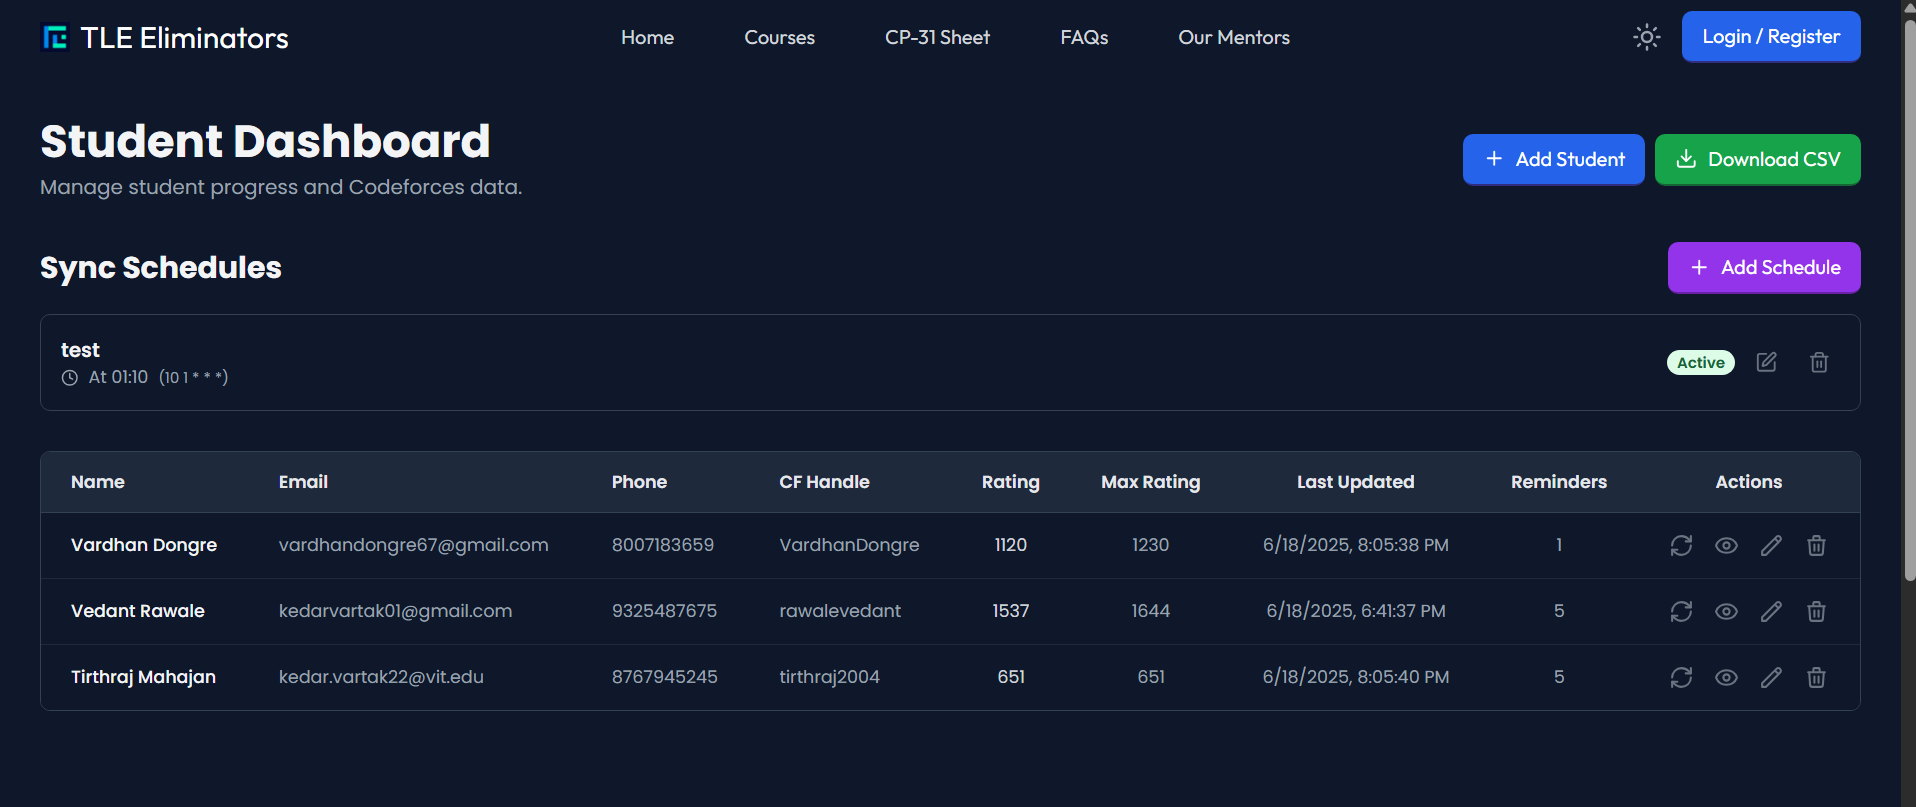
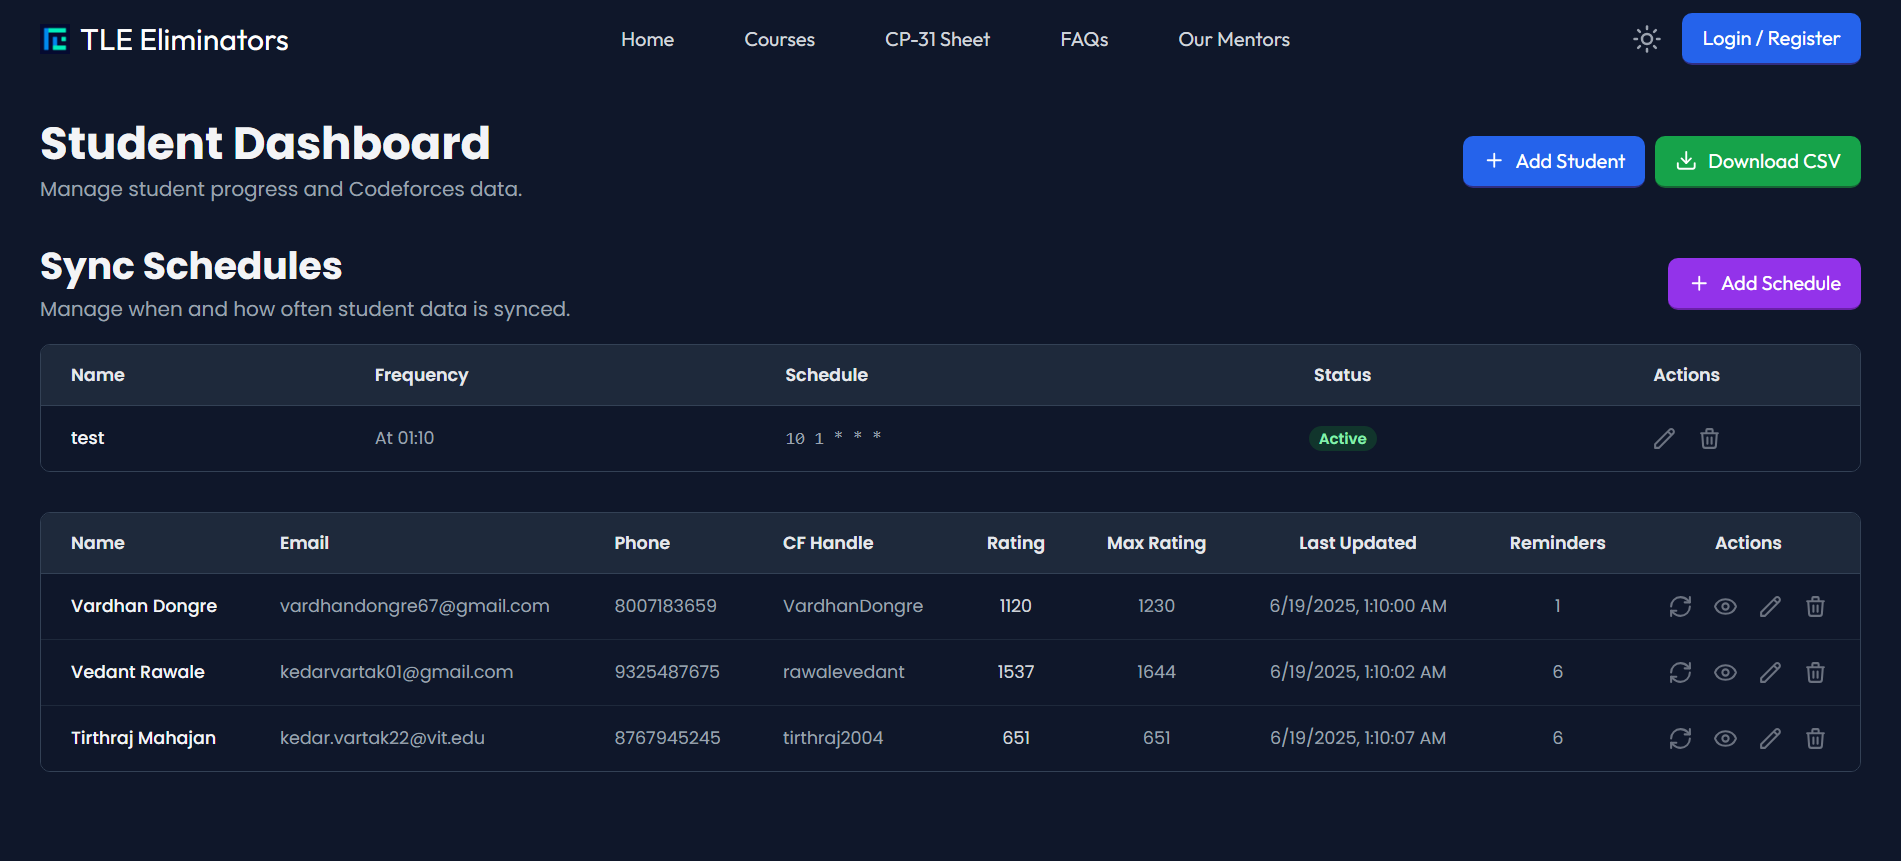
cron job schedule sync ui updation

diff --git a/frontend/src/pages/StudentDashboard.js b/frontend/src/pages/StudentDashboard.js
@@ -1,6 +1,6 @@
 import { useState, useEffect } from "react";
 import "../App.css";
-import { Plus, Download, Eye, RefreshCw, Trash2, Edit, Save, X, Clock } from 'lucide-react';
+import { Plus, Download, Eye, RefreshCw } from 'lucide-react';
 import toast from 'react-hot-toast';
 import { Link } from "react-router-dom";
 import cronstrue from 'cronstrue';
@@ -496,22 +496,43 @@ function StudentDashboard() {
 }
 
 const ScheduleManager = ({ schedules, onSave, onDelete }) => {
-  const [showModal, setShowModal] = useState(false);
+  const [showEditModal, setShowEditModal] = useState(false);
   const [editingSchedule, setEditingSchedule] = useState(null);
+  const [scheduleToDelete, setScheduleToDelete] = useState(null);
 
-  const openModal = (schedule = null) => {
-    setEditingSchedule(schedule ? { ...schedule } : { name: '', schedule: '0 2 * * *', isEnabled: true });
-    setShowModal(true);
+  const openEditModal = (schedule = null) => {
+    setEditingSchedule(schedule ? { ...schedule } : { name: '', schedule: '0 2 * * *', timezone: 'Asia/Kolkata', isEnabled: true });
+    setShowEditModal(true);
   };
 
-  const closeModal = () => {
-    setShowModal(false);
+  const closeEditModal = () => {
+    setShowEditModal(false);
     setEditingSchedule(null);
   };
 
   const handleSave = () => {
+    if (!editingSchedule.name || !editingSchedule.schedule) {
+      toast.error('Schedule name and pattern are required.');
+      return;
+    }
+    // Basic cron validation
+    if (editingSchedule.schedule.split(' ').length !== 5) {
+      toast.error('Invalid cron pattern. It must have 5 parts.');
+      return;
+    }
     onSave(editingSchedule);
-    closeModal();
+    closeEditModal();
+  };
+
+  const handleDeleteClick = (schedule) => {
+    setScheduleToDelete(schedule);
+  };
+
+  const confirmDelete = () => {
+    if (scheduleToDelete) {
+      onDelete(scheduleToDelete._id);
+      setScheduleToDelete(null);
+    }
   };
 
   const handleInputChange = (e) => {
@@ -521,54 +542,119 @@ const ScheduleManager = ({ schedules, onSave, onDelete }) => {
 
   return (
     <div className="mb-8">
-      <div className="flex justify-between items-center mb-4">
-        <h2 className="text-2xl font-bold">Sync Schedules</h2>
-        <button onClick={() => openModal()} className="flex items-center gap-2 bg-purple-600 text-white font-normal py-2 px-4 rounded-lg transition-all duration-300 font-outfit border-b-2 border-purple-800 hover:border-purple-700 hover:bg-purple-500 active:border-b-0">
+      <header className="flex flex-col sm:flex-row justify-between items-start sm:items-center mb-4">
+        <div>
+            <h2 className="text-3xl font-bold">Sync Schedules</h2>
+            <p className="text-gray-500 dark:text-gray-400 mt-1">Manage when and how often student data is synced.</p>
+        </div>
+        <button 
+          onClick={() => openEditModal()} 
+          className="flex items-center gap-2 bg-purple-600 text-white font-normal py-2 px-4 rounded-lg transition-all duration-300 font-outfit border-b-2 border-purple-800 hover:border-purple-700 hover:bg-purple-500 active:border-b-0 mt-4 sm:mt-0"
+        >
           <Plus size={18} /> Add Schedule
         </button>
-      </div>
-      <div className="bg-white dark:bg-slate-900 rounded-lg border border-gray-200 dark:border-slate-700 overflow-hidden">
-        <ul className="divide-y divide-gray-200 dark:divide-slate-700">
-          {schedules.map(schedule => (
-            <li key={schedule._id} className="p-4 flex flex-col sm:flex-row justify-between items-start sm:items-center hover:bg-gray-50 dark:hover:bg-slate-800/50">
-              <div className="mb-2 sm:mb-0">
-                <p className={`font-semibold ${!schedule.isEnabled && 'line-through text-gray-400'}`}>{schedule.name}</p>
-                <p className="text-sm text-gray-500 dark:text-gray-400 flex items-center gap-2">
-                  <Clock size={14} />
+      </header>
+      
+      <div className="overflow-x-auto bg-white dark:bg-slate-900 rounded-lg border border-gray-200 dark:border-slate-700">
+        <table className="min-w-full divide-y divide-gray-200 dark:divide-slate-700">
+          <thead className="bg-gray-50 dark:bg-slate-800">
+            <tr>
+              <th scope="col" className="py-3.5 px-6 text-left text-sm font-semibold text-gray-900 dark:text-gray-200">Name</th>
+              <th scope="col" className="px-6 py-3.5 text-left text-sm font-semibold text-gray-900 dark:text-gray-200">Frequency</th>
+              <th scope="col" className="hidden px-6 py-3.5 text-left text-sm font-semibold text-gray-900 dark:text-gray-200 md:table-cell">Schedule</th>
+              <th scope="col" className="px-6 py-3.5 text-center text-sm font-semibold text-gray-900 dark:text-gray-200">Status</th>
+              <th scope="col" className="px-6 py-3.5 text-center text-sm font-semibold text-gray-900 dark:text-gray-200">Actions</th>
+            </tr>
+          </thead>
+          <tbody className="divide-y divide-gray-200 dark:divide-slate-800 bg-white dark:bg-slate-900">
+            {schedules.map(schedule => (
+              <tr key={schedule._id} className="hover:bg-gray-50 dark:hover:bg-slate-800/50">
+                <td className="whitespace-nowrap py-4 px-6 text-sm font-medium text-gray-900 dark:text-gray-100">{schedule.name}</td>
+                <td className="whitespace-nowrap px-6 py-4 text-sm text-gray-500 dark:text-gray-400">
                   {safeCronToString(schedule.schedule, { use24HourTimeFormat: true })}
-                  <span className="text-xs text-gray-400">({schedule.schedule})</span>
-                </p>
-              </div>
-              <div className="flex items-center gap-2">
-                <span className={`px-2 inline-flex text-xs leading-5 font-semibold rounded-full ${schedule.isEnabled ? 'bg-green-100 text-green-800' : 'bg-red-100 text-red-800'}`}>
-                  {schedule.isEnabled ? 'Active' : 'Disabled'}
-                </span>
-                <button onClick={() => openModal(schedule)} className="p-2 text-gray-500 hover:text-yellow-600 dark:hover:text-yellow-400"><Edit size={18} /></button>
-                <button onClick={() => onDelete(schedule._id)} className="p-2 text-gray-500 hover:text-red-600 dark:hover:text-red-500"><Trash2 size={18} /></button>
-              </div>
-            </li>
-          ))}
-        </ul>
+                </td>
+                <td className="hidden whitespace-nowrap px-6 py-4 text-sm text-gray-500 dark:text-gray-400 md:table-cell font-mono">{schedule.schedule}</td>
+                <td className="whitespace-nowrap px-6 py-4 text-sm text-center">
+                  <span className={`px-2 inline-flex text-xs leading-5 font-semibold rounded-full ${schedule.isEnabled ? 'bg-green-100 text-green-800 dark:bg-green-900/50 dark:text-green-300' : 'bg-red-100 text-red-800 dark:bg-red-900/50 dark:text-red-300'}`}>
+                    {schedule.isEnabled ? 'Active' : 'Disabled'}
+                  </span>
+                </td>
+                <td className="whitespace-nowrap py-4 px-6 text-center text-sm">
+                  <div className="flex items-center justify-center gap-4">
+                    <button onClick={() => openEditModal(schedule)} className="text-gray-500 hover:text-yellow-600 dark:hover:text-yellow-400 transition-colors" title="Edit Schedule">
+                        <svg xmlns="http://www.w3.org/2000/svg" fill="none" viewBox="0 0 24 24" stroke="currentColor" className="w-5 h-5"><path strokeLinecap="round" strokeLinejoin="round" strokeWidth="2" d="M15.232 5.232l3.536 3.536m-2.036-5.036a2.5 2.5 0 113.536 3.536L6.5 21.036H3v-3.536L16.732 3.732z" /></svg>
+                    </button>
+                    <button onClick={() => handleDeleteClick(schedule)} className="text-gray-500 hover:text-red-600 dark:hover:text-red-500 transition-colors" title="Delete Schedule">
+                        <svg xmlns="http://www.w3.org/2000/svg" fill="none" viewBox="0 0 24 24" stroke="currentColor" className="w-5 h-5"><path strokeLinecap="round" strokeLinejoin="round" strokeWidth="2" d="M19 7l-.867 12.142A2 2 0 0116.138 21H7.862a2 2 0 01-1.995-1.858L5 7m5 4v6m4-6v6m1-10V4a1 1 0 00-1-1h-4a1 1 0 00-1 1v3M4 7h16" /></svg>
+                    </button>
+                  </div>
+                </td>
+              </tr>
+            ))}
+             {schedules.length === 0 && (
+                <tr>
+                  <td colSpan="5" className="whitespace-nowrap p-12 text-center text-sm text-gray-500 dark:text-gray-400">
+                    No schedules found. Add one to get started!
+                  </td>
+                </tr>
+              )}
+          </tbody>
+        </table>
       </div>
 
-      {showModal && (
+      {showEditModal && (
         <div className="fixed inset-0 bg-black bg-opacity-50 flex justify-center items-center z-50">
           <div className="bg-white dark:bg-slate-800 p-8 rounded-lg shadow-2xl w-full max-w-md">
-            <h2 className="text-2xl font-bold mb-6">{editingSchedule?._id ? 'Edit' : 'Add'} Schedule</h2>
-            <div className="space-y-4">
-              <input type="text" name="name" value={editingSchedule.name} onChange={handleInputChange} placeholder="Schedule Name" className="w-full p-2 border rounded dark:bg-slate-700 dark:border-slate-600"/>
-              <input type="text" name="schedule" value={editingSchedule.schedule} onChange={handleInputChange} placeholder="Cron String (e.g., 0 5 * * *)" className="w-full p-2 border rounded dark:bg-slate-700 dark:border-slate-600"/>
-              <p className="text-sm text-gray-500 -mt-2">
-                {safeCronToString(editingSchedule.schedule, { use24HourTimeFormat: true, verbose: true })}
-              </p>
-              <label className="flex items-center gap-2">
-                <input type="checkbox" name="isEnabled" checked={editingSchedule.isEnabled} onChange={handleInputChange} />
-                Enabled
-              </label>
-            </div>
-            <div className="flex justify-end gap-4 mt-6">
-              <button onClick={closeModal} className="font-outfit bg-gray-500 hover:bg-gray-600 text-white font-normal py-2 px-4 rounded-lg"><X size={18}/></button>
-              <button onClick={handleSave} className="font-outfit bg-brand-blue hover:bg-blue-700 text-white font-normal py-2 px-4 rounded-lg"><Save size={18}/></button>
+            <h2 className="text-2xl font-bold mb-6 text-brand-dark dark:text-white">{editingSchedule?._id ? 'Edit' : 'Add New'} Schedule</h2>
+            <form onSubmit={(e) => { e.preventDefault(); handleSave(); }} noValidate>
+              <div className="mb-4">
+                <label htmlFor="name" className="block text-gray-700 dark:text-gray-300 text-sm font-bold mb-2">Schedule Name</label>
+                <input type="text" name="name" id="name" value={editingSchedule.name} onChange={handleInputChange} className="shadow-sm appearance-none border dark:border-slate-600 rounded w-full py-2 px-3 text-gray-700 dark:text-gray-200 bg-white dark:bg-slate-700 leading-tight focus:outline-none focus:ring-2 focus:ring-brand-blue" required />
+              </div>
+
+              <div className="mb-4">
+                <label htmlFor="schedule" className="block text-gray-700 dark:text-gray-300 text-sm font-bold mb-2">Cron Pattern</label>
+                <input type="text" name="schedule" id="schedule" value={editingSchedule.schedule} onChange={handleInputChange} className="font-mono shadow-sm appearance-none border dark:border-slate-600 rounded w-full py-2 px-3 text-gray-700 dark:text-gray-200 bg-white dark:bg-slate-700 leading-tight focus:outline-none focus:ring-2 focus:ring-brand-blue" required />
+                <p className="text-sm text-gray-500 dark:text-gray-400 mt-2">
+                  {safeCronToString(editingSchedule.schedule, { use24HourTimeFormat: true, verbose: true })}
+                </p>
+              </div>
+              
+              <div className="mb-6">
+                <label className="flex items-center justify-between cursor-pointer">
+                  <span className="text-sm font-bold text-gray-700 dark:text-gray-300">Schedule Enabled</span>
+                  <div className="relative">
+                    <input type="checkbox" name="isEnabled" id="isEnabled" className="sr-only peer" checked={editingSchedule.isEnabled} onChange={handleInputChange} />
+                    <div className="w-11 h-6 bg-gray-200 rounded-full peer dark:bg-slate-700 peer-checked:after:translate-x-full peer-checked:after:border-white after:content-[''] after:absolute after:top-[2px] after:left-[2px] after:bg-white after:border-gray-300 after:border after:rounded-full after:h-5 after:w-5 after:transition-all dark:border-gray-600 peer-checked:bg-green-600"></div>
+                  </div>
+                </label>
+              </div>
+
+              <div className="flex items-center justify-end gap-4">
+                <button type="button" onClick={closeEditModal} className="font-outfit bg-gray-500 hover:bg-gray-600 dark:bg-slate-600 dark:hover:bg-slate-500 text-white font-normal py-2 px-4 rounded-lg focus:outline-none focus:shadow-outline transition-all border-b-2 border-gray-700 hover:border-gray-600 active:border-b-0">
+                  Cancel
+                </button>
+                <button type="submit" className="font-outfit bg-brand-blue hover:bg-blue-700 text-white font-normal py-2 px-4 rounded-lg focus:outline-none focus:shadow-outline transition-all border-b-2 border-indigo-900 hover:border-blue-700 active:border-b-0">
+                  {editingSchedule?._id ? 'Save Changes' : 'Add Schedule'}
+                </button>
+              </div>
+            </form>
+          </div>
+        </div>
+      )}
+
+      {scheduleToDelete && (
+        <div className="fixed inset-0 bg-black bg-opacity-50 flex justify-center items-center z-50">
+          <div className="bg-white dark:bg-slate-800 p-8 rounded-lg shadow-2xl w-full max-w-md">
+            <h2 className="text-2xl font-bold mb-4 text-brand-dark dark:text-white">Confirm Deletion</h2>
+            <p className="text-gray-700 dark:text-gray-300 mb-6">Are you sure you want to delete the schedule <span className="font-semibold">{scheduleToDelete.name}</span>? This action cannot be undone.</p>
+            <div className="flex items-center justify-end gap-4">
+              <button onClick={() => setScheduleToDelete(null)} className="font-outfit bg-gray-500 hover:bg-gray-600 dark:bg-slate-600 dark:hover:bg-slate-500 text-white font-normal py-2 px-4 rounded-lg focus:outline-none focus:shadow-outline transition-all border-b-2 border-gray-700 hover:border-gray-600 active:border-b-0">
+                  Cancel
+              </button>
+              <button onClick={confirmDelete} className="font-outfit bg-red-600 hover:bg-red-700 text-white font-normal py-2 px-4 rounded-lg focus:outline-none focus:shadow-outline transition-all border-b-2 border-red-800 hover:border-red-700 active:border-b-0">
+                Delete
+              </button>
             </div>
           </div>
         </div>
